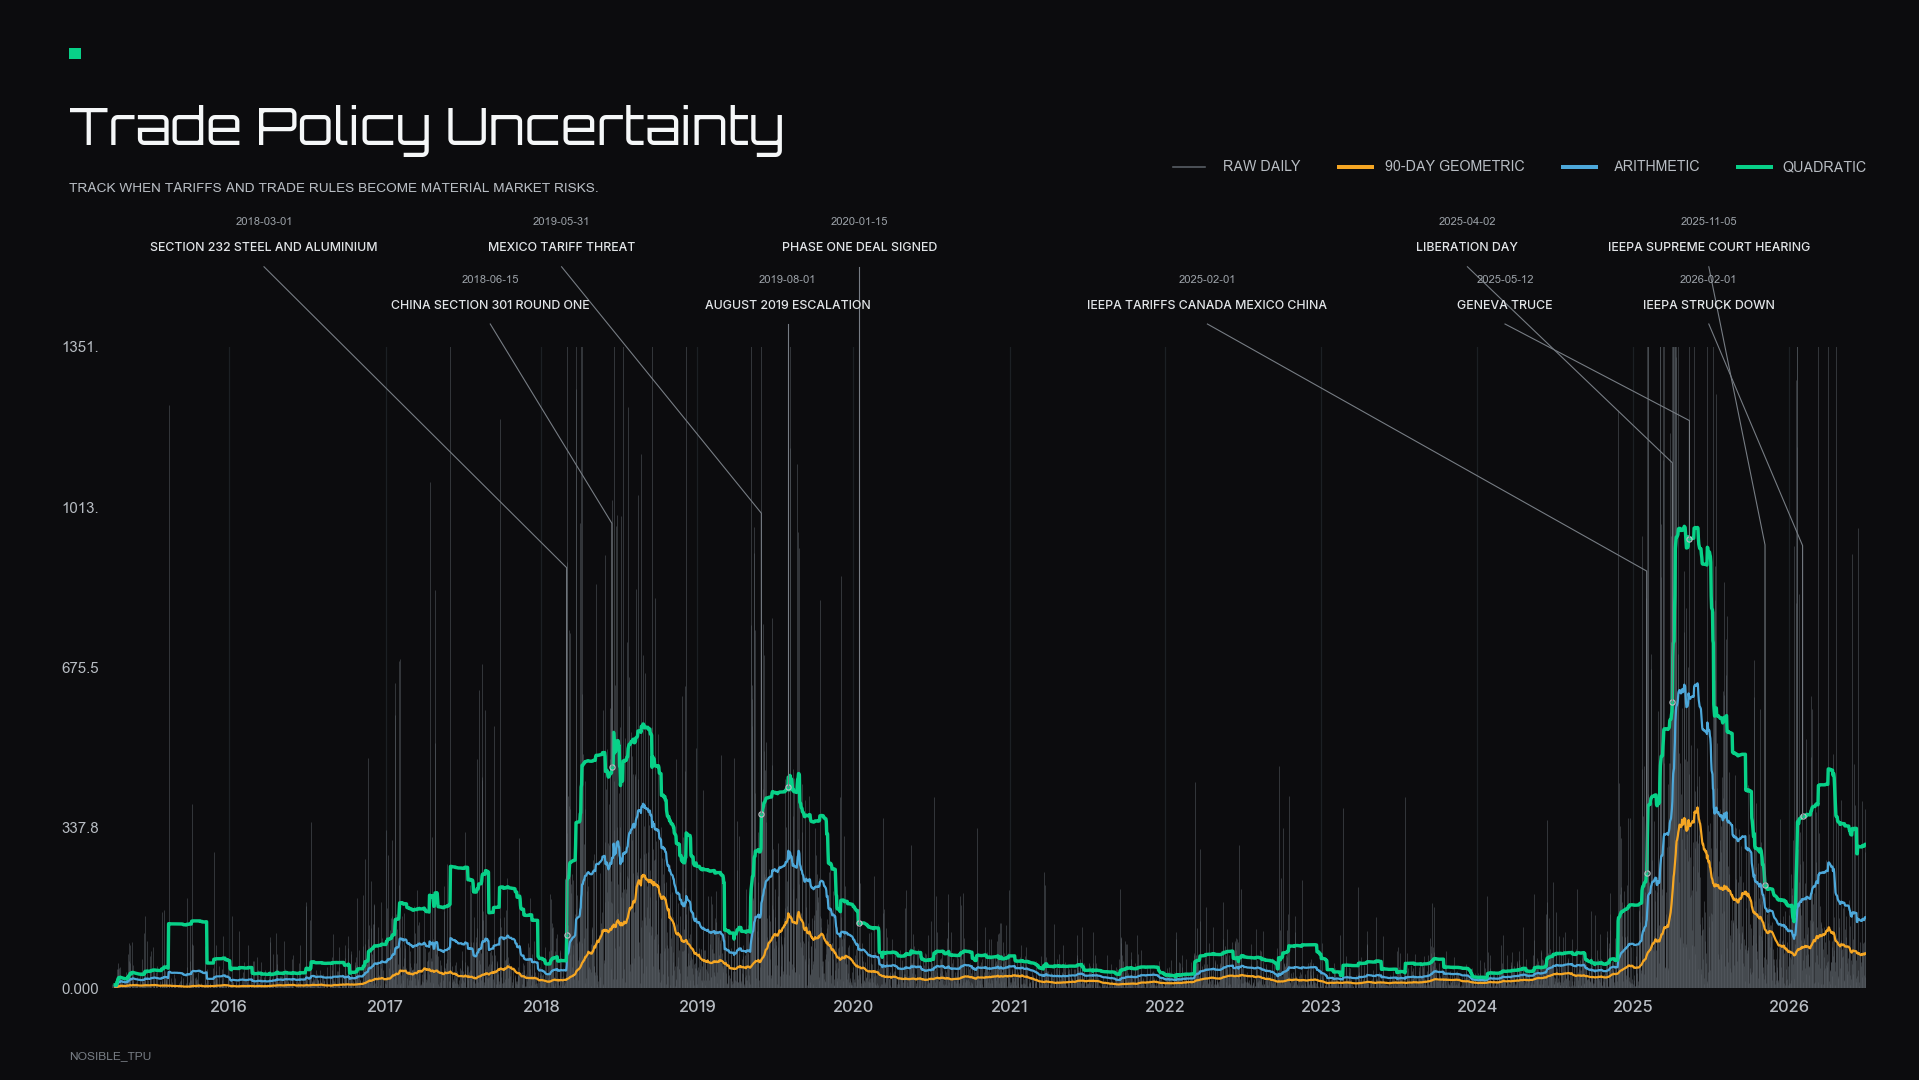
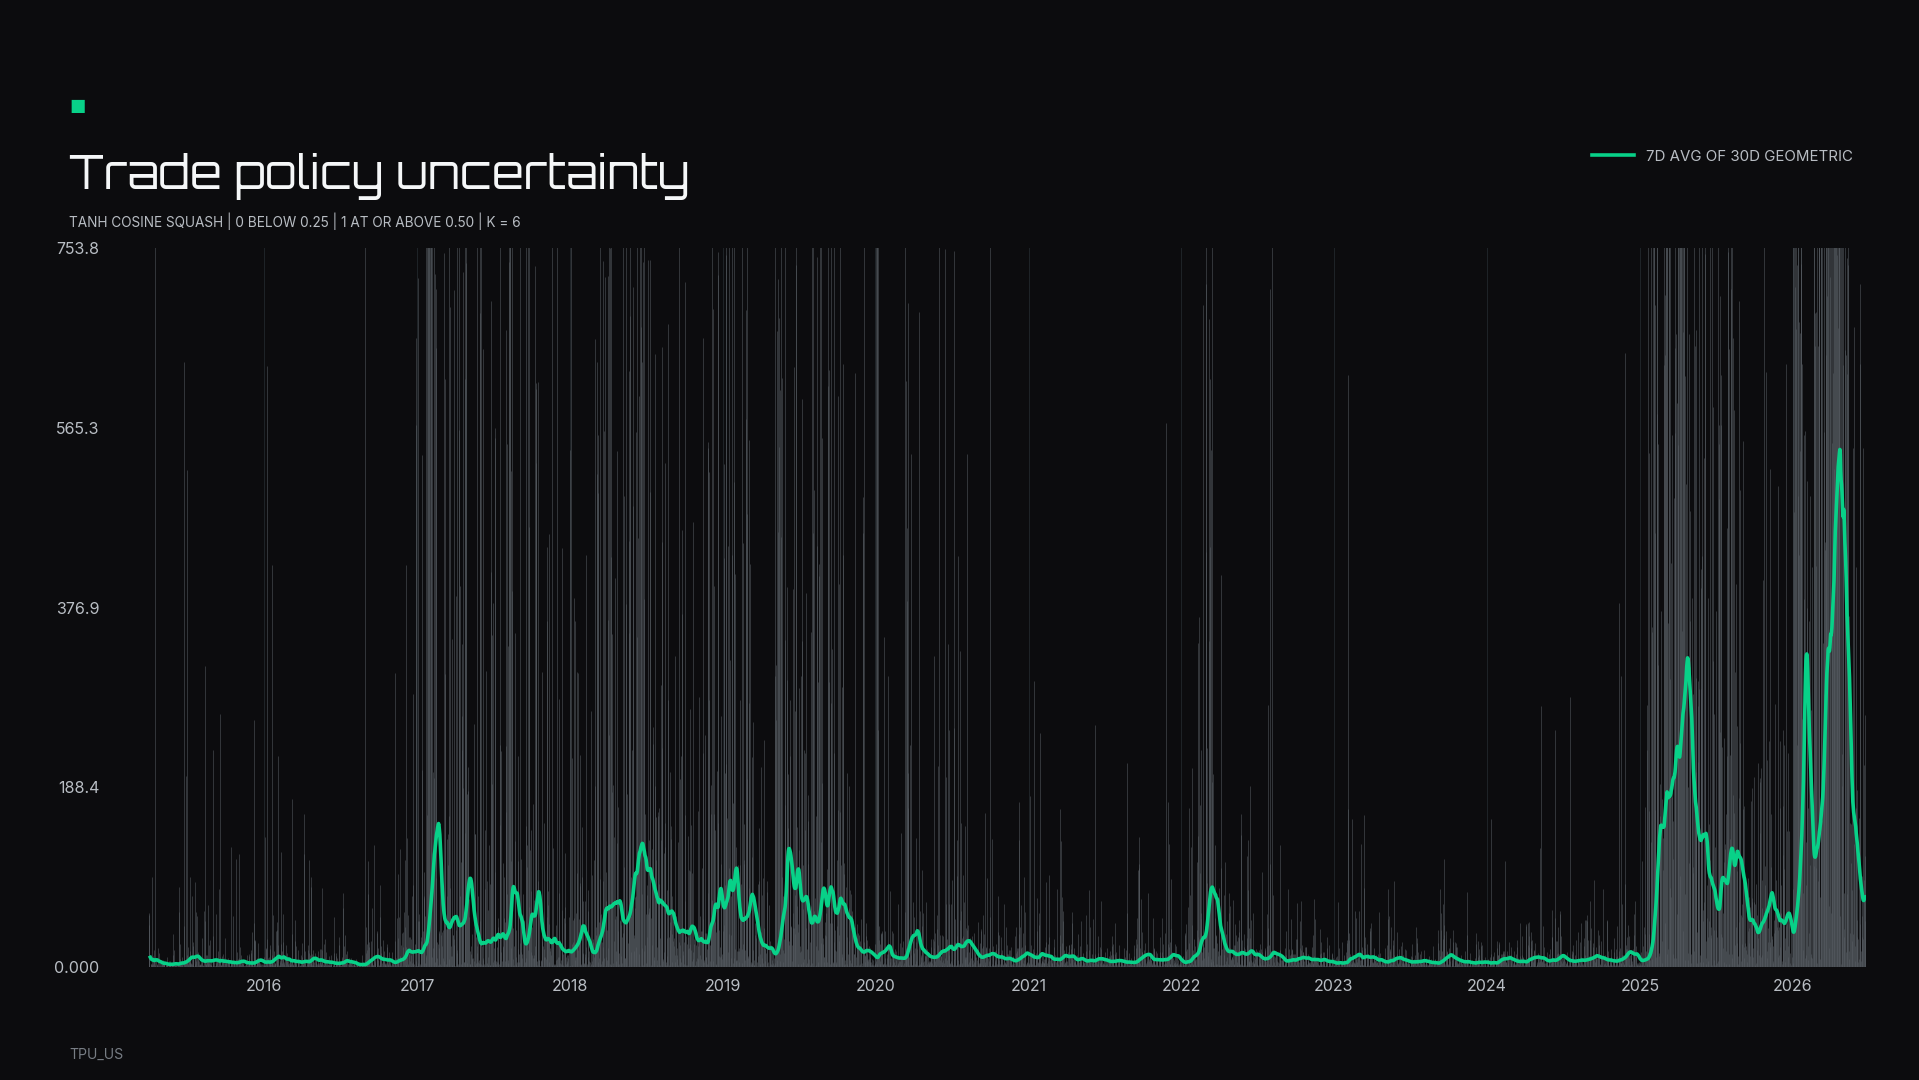
fix: refresh featured README chart assets

diff --git a/README.md b/README.md
@@ -6,6 +6,19 @@
 transparent daily semantic factors. Quant portfolio managers and researchers write the definition,
 inspect the output, and rerun it when the research question changes.
 
+## See a real semantic factor
+
+### Inflation attention
+
+This factor turns US coverage of prices, costs, and inflation expectations into a dated signal. The
+chart is a real package-rendered output, not mock data.
+
+<p align="center">
+  <img src="docs/images/inflation-attention.png" alt="Inflation attention semantic factor" width="960">
+</p>
+
+<p align="center"><strong>Inflation attention</strong> - US coverage of prices, costs, and inflation expectations</p>
+
 The workflow is simple:
 
 1. Write relevance anchors and polarity pairs in plain text.
@@ -42,27 +55,6 @@ export OPENROUTER_API_KEY=sk-or-...
 ```
 
 Python 3.10 or newer is required.
-
-## See real factors first
-
-These charts are real package-rendered outputs, not mock data. The local examples include trade
-policy uncertainty, crop infestation, and US labour action. The gallery also includes three of the
-worked macro factors published with the semantic-factors page.
-
-<table>
-  <tr>
-    <td><img src="docs/images/geopolitical-risk.png" alt="Geopolitical risk semantic factor" width="480"><br><sub>Geopolitical risk</sub></td>
-    <td><img src="docs/images/trade-policy-uncertainty.png" alt="Trade policy uncertainty semantic factor" width="480"><br><sub>Trade policy uncertainty</sub></td>
-  </tr>
-  <tr>
-    <td><img src="docs/images/sanctions-and-export-controls.png" alt="Sanctions and export controls semantic factor" width="480"><br><sub>Sanctions and export controls</sub></td>
-    <td><img src="docs/images/pandemic-and-health-risk.png" alt="Pandemic and health risk semantic factor" width="480"><br><sub>Pandemic and health risk</sub></td>
-  </tr>
-  <tr>
-    <td><img src="docs/images/us-labour-action.png" alt="US labour action semantic factor" width="480"><br><sub>US labour action</sub></td>
-    <td><img src="docs/images/crop-infestation.png" alt="Crop infestation semantic factor" width="480"><br><sub>Crop infestation</sub></td>
-  </tr>
-</table>
 
 The complete set of 30 worked factors, their definitions, charts, CSV files, and research sources
 is available at [semantic-factors on NOSIBLE](https://www.nosible.com/semantic-factors). The
